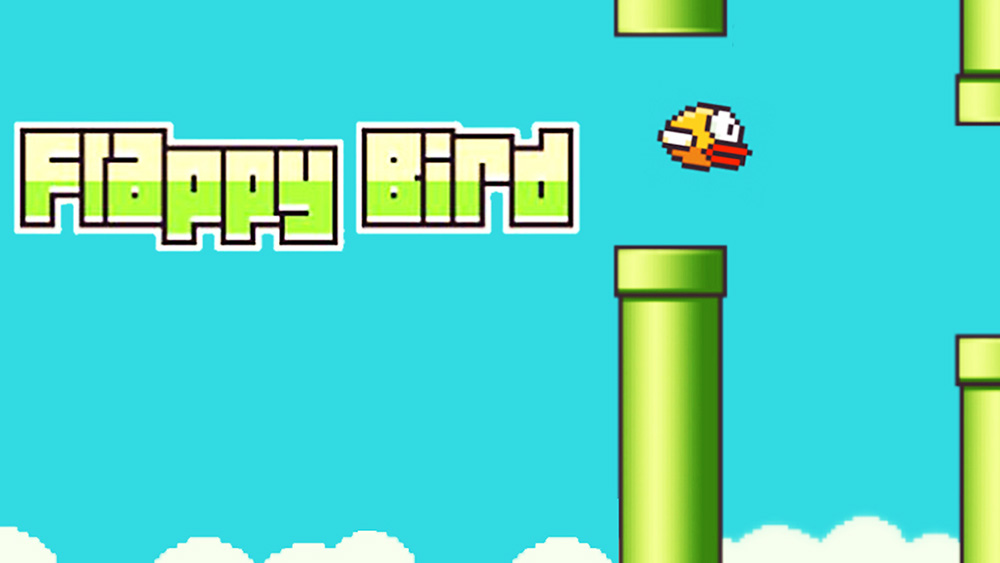
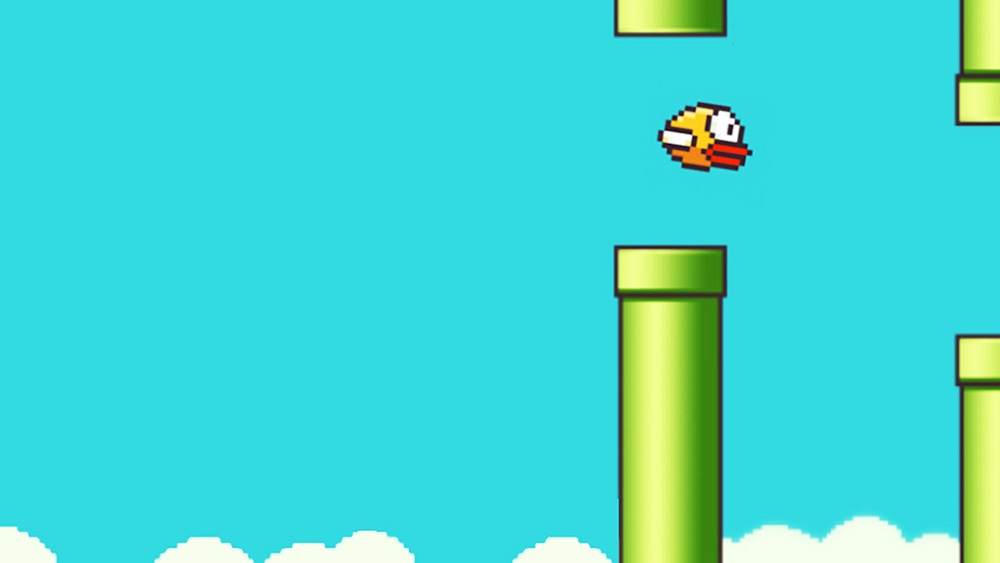
add doodle jump and flappy bird games

Changed region(s): [[0.0, 0.2114, 0.589, 0.4529], [0.682, 0.2416, 0.744, 0.302]]

diff --git a/main.js b/main.js
@@ -10,28 +10,63 @@ window.addEventListener('scroll', () =>{
 
 function trocaBannerDoodleJump(){
     document.getElementById('banner').style.backgroundImage="url(img/posters/doodle_jump2.jpg)";
+    document.querySelector('.banner_buttons').style.display="block";
+    document.querySelector('.banner_title').innerHTML="doodle jump";
+    document.querySelector('.banner_title').style.color="red";
+    document.querySelector('.banner_title').style.fontWeight="200";
+    document.querySelector('.banner_title').style.fontFamily="Indie Flower";
+
+    document.querySelector('.banner_discription').innerHTML="relemebre a nostalgia de 2014 de quando jogava doodle jump com seus amigos!";
+    document.querySelector('.banner_discription').style.color="red";
+    document.querySelector('.banner_discription').style.fontWeight="300";
+    document.querySelector('.banner_discription').style.fontFamily="Indie Flower";
+
+    const a = document.querySelector('#game_link');
+    const b = document.querySelector('#game_history');
+    a.href  = "doodle_jump/play/doodle_jump_play.html";
+    b.href  = "doodle_jump/play/story/doodle_jump_history.html";//verificar
 }
 
 function trocaBannerFlappyBird(){
     document.getElementById('banner').style.backgroundImage="url(img/posters/flappy_bird2.jpg)";
+    document.querySelector('.banner_buttons').style.display="block";
+    document.querySelector('.banner_title').innerHTML="Flappy Bird";
+    document.querySelector('.banner_title').style.fontFamily='arial';
+    document.querySelector('.banner_title').style.color="white";
+    document.querySelector('.banner_title').style.fontWeight="200";
+
+    document.querySelector('.banner_discription').innerHTML="O famoso Flappy Bird, tão estressante quanto divertido!";
+    document.querySelector('.banner_discription').style.fontFamily="arial";
+    document.querySelector('.banner_discription').style.color="white";
+    document.querySelector('.banner_discription').style.fontWeight="300";
+
+    const a = document.querySelector('#game_link');
+    const b = document.querySelector('#game_history');
+    a.href  = "flappy_bird/play/flappy_bird_play.html";
+    b.href  = "doodle_jump/play/story/doodle_jump_history.html";
 }
 
 function trocaBannerPong(){
     document.getElementById('banner').style.backgroundImage="url(img/posters/pong2.jpg)";
+    document.querySelector('.banner_buttons').style.display="block";
 }
 
 function trocaBannerSnake(){
     document.getElementById('banner').style.backgroundImage="url(img/posters/snake2.png)";
+    document.querySelector('.banner_buttons').style.display="block";
 }
 
 function trocaBannerSpaceInvaders(){
     document.getElementById('banner').style.backgroundImage="url(img/posters/space_invaders3.jpg)";
+    document.querySelector('.banner_buttons').style.display="block";
 }
 
 function trocaBannerTetris(){
     document.getElementById('banner').style.backgroundImage="url(img/posters/tetris2.png)";
+    document.querySelector('.banner_buttons').style.display="block";
 }
 
 function trocaBannerFruitNinja(){
     document.getElementById('banner').style.backgroundImage="url(img/posters/fruit_ninja2.png)";
+    document.querySelector('.banner_buttons').style.display="block";
 }

diff --git a/main.html b/main.html
@@ -18,13 +18,13 @@
         </nav>
         <div class="banner" id="banner">
             <div class="banner_content">
-                <h1 class="banner_title">Doodle Jump</h1>
+                <h1 class="banner_title">HIGHSCORE</h1>
                 <div class="banner_buttons">
-                    <button class="banner_button">Jogar</button>
-                    <button class="banner_button">Saber mais</button>
+                    <button class="banner_button"><a id="game_link" href="#">Jogar</a> </button>
+                    <button class="banner_button"><a id="history_link"  href="#">Saber mais</a></button>
                 </div>
                 <div class="banner_discription">
-                    <p>Resumo do jogo</p>
+                    <p>Aproveite nosso catálogo de jogos clássicos!</p>
                 </div>
             </div>
             <div class="banner_fade_bottom">

diff --git a/main.css b/main.css
@@ -1,3 +1,7 @@
+@import url('https://fonts.googleapis.com/css2?family=Indie+Flower&display=swap');
+@import url('https://fonts.googleapis.com/css2?family=Press+Start+2P&display=swap');
+
+
 /*  Header  */
 
 .nav_logo{
@@ -56,6 +60,10 @@
     height: 180px;
 }
 
+.banner_buttons{
+    display: none;
+}
+
 .banner_button{
     cursor: pointer;
     color:white;
@@ -72,6 +80,12 @@
 }
 
 .banner_button:hover{
+    color: #000;
+    background-color: white;
+    transition: all 0.2s;
+}
+
+.banner_button:hover a{
     color: #000;
     background-color: white;
     transition: all 0.2s;

diff --git a/doodle_jump/story/doodle_jump_history.html b/doodle_jump/story/doodle_jump_history.html
@@ -1,0 +1,12 @@
+<!DOCTYPE html>
+<html lang="pt-br">
+<head>
+    <meta charset="UTF-8">
+    <meta http-equiv="X-UA-Compatible" content="IE=edge">
+    <meta name="viewport" content="width=device-width, initial-scale=1.0">
+    <title>Doodle Jump History</title>
+</head>
+<body>
+    <p>hello world!</p>
+</body>
+</html>
